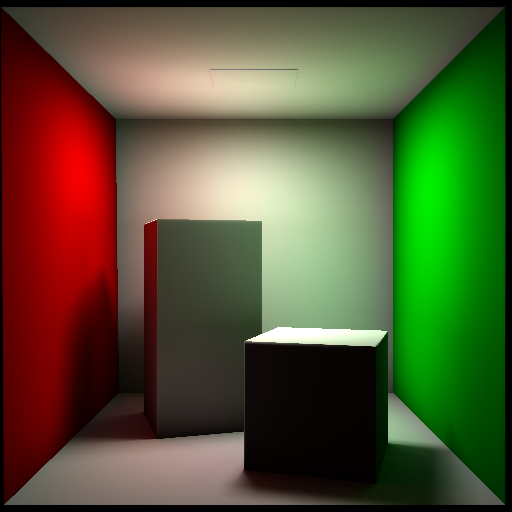
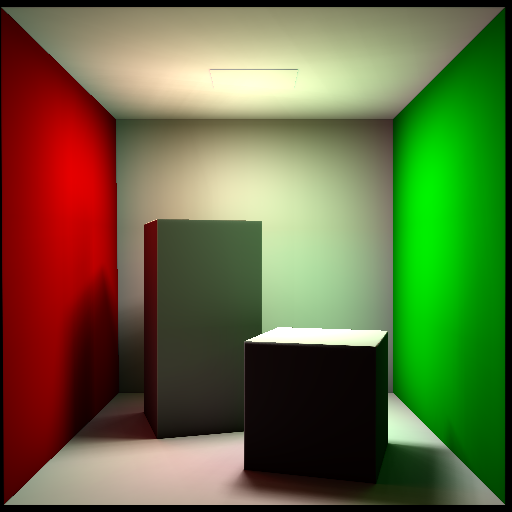
update a result

diff --git a/src/Renderer.cpp b/src/Renderer.cpp
@@ -59,7 +59,7 @@ void Renderer::DistributeVPLs() {
         light_pos_ = Vec3f(213/20. + (343-213)/20.*rand()/RAND_MAX, 548/20.-0.5, 227/20. + (332-227)/20.*rand()/RAND_MAX);
         light_colors_.push_back(Vec3f(1.0, 1.0, 1.0));
         light_poses_.push_back(light_pos_);
-        light_weights_.push_back(1. / double(target_vpl_number)*15);
+        light_weights_.push_back(1. / double(target_vpl_number)*6);
         light_directions_.push_back(light_dir);
         Vec3f sample_dir = CosWeightedHemisphereSample(light_dir);
         Ray ray(light_pos_, sample_dir);
@@ -72,7 +72,7 @@ void Renderer::DistributeVPLs() {
         Vec3f color = mat->GetReflectance() * fabs(normal.dot(sample_dir));
         light_poses_.push_back(intersection.hit + normal*delta);
         light_colors_.push_back(color);
-        light_weights_.push_back(1. / double(target_vpl_number)*30);
+        light_weights_.push_back(1. / double(target_vpl_number)*18);
         light_directions_.push_back(normal);
 
         do {
@@ -87,7 +87,7 @@ void Renderer::DistributeVPLs() {
             light_poses_.push_back(intersection.hit + normal*delta);
             Vec3f c2(color.x*color2.x, color.y*color2.y, color.z*color2.z);
             light_colors_.push_back(c2);
-            light_weights_.push_back(1. / double(target_vpl_number)*30);
+            light_weights_.push_back(1. / double(target_vpl_number)*18);
             light_directions_.push_back(normal);
             do {
                 Vec3f sample_dir = CosWeightedHemisphereSample(normal);
@@ -101,7 +101,7 @@ void Renderer::DistributeVPLs() {
                 light_poses_.push_back(intersection.hit + normal*delta);
                 Vec3f c3(color2.x*color3.x, color2.y*color3.y, color2.z*color3.z);
                 light_colors_.push_back(c3);
-                light_weights_.push_back(1. / double(target_vpl_number)*30);
+                light_weights_.push_back(1. / double(target_vpl_number)*18);
                 light_directions_.push_back(normal);
             } while (false);
         } while (false);
